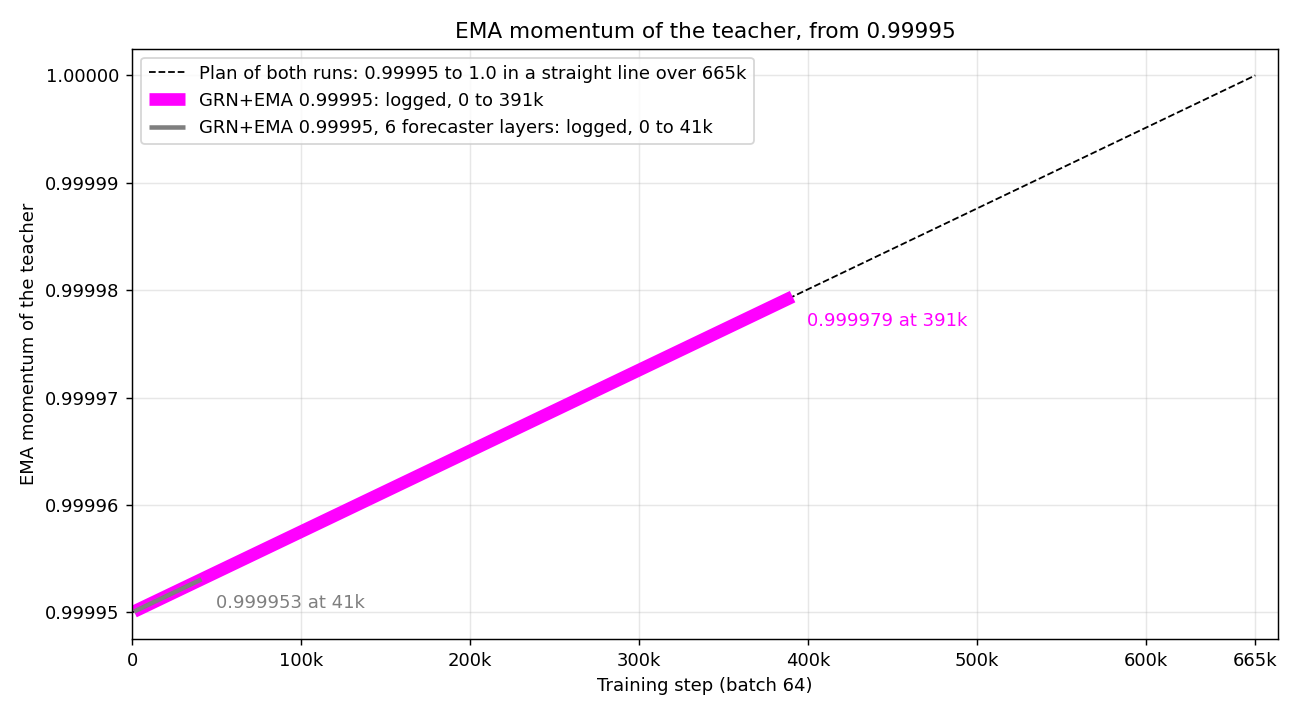
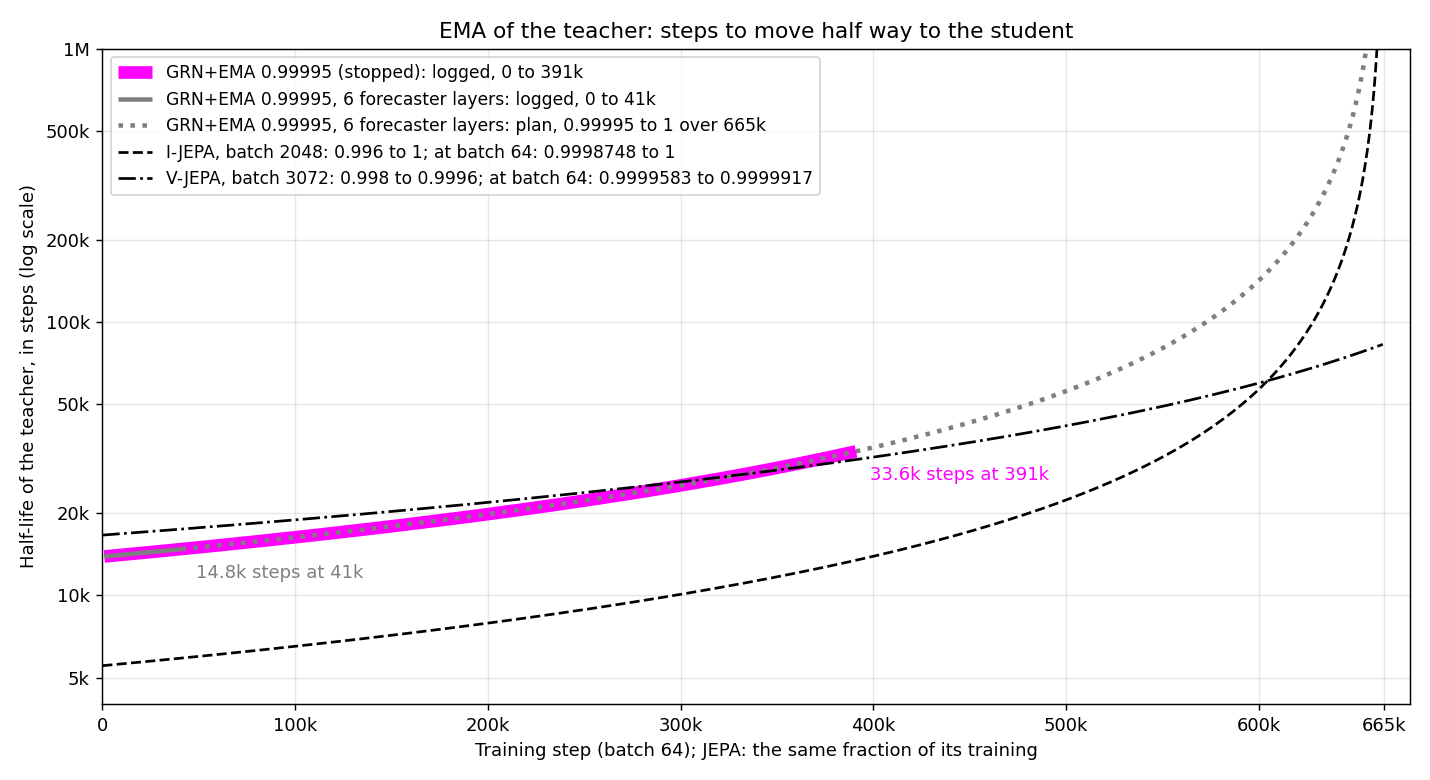
Frequency-family report: EMA of grn_ema099995 and grn_ema099995_f6 as a half-life
The owner: the number of steps for the teacher to change is a better
metric than the momentum. The y axis is now the half-life of the teacher,
ln 0.5 / ln(momentum), in steps. With I-JEPA (batch 2048) and V-JEPA
(batch 3072) moved to batch 64 by the EMA scaling rule
momentum ** (64 / batch size) (Busbridge and others 2023).

diff --git a/reports/2026-10-10_frequency_family_head/scripts/plot_ema_099995.py b/reports/2026-10-10_frequency_family_head/scripts/plot_ema_099995.py
@@ -1,9 +1,18 @@
-"""The EMA momentum of the teacher of grn_ema099995 (magenta) and
-grn_ema099995_f6 (grey, 6 forecaster layers): the column `ema_tau` of their
-loss files every 1,000 steps, and the plan of both runs (0.99995 to 1.0 in a
-straight line over 665,000 steps). grn_ema099995 stopped at step 391,000 (the
-owner, 10-21). Writes results/ema_tau_099995_logged.tsv and
-plots/ema_schedule_099995.png.
+"""The EMA of the teacher of grn_ema099995 (magenta) and grn_ema099995_f6
+(grey, 6 forecaster layers), as a half-life: the number of steps for the
+teacher to move half way to a fixed student, ln 0.5 / ln(momentum).
+
+  our runs  the column `ema_tau` of their loss files every 1,000 steps. The
+            plan of both runs: 0.99995 to 1.0 in a straight line over
+            665,000 steps. grn_ema099995 stopped at step 391,000 (the owner,
+            10-21). The plan of grn_ema099995_f6 after its last logged step.
+  I-JEPA    0.996 to 1.0 in a straight line over its training, batch 2048
+  V-JEPA    0.998 to 1.0 in a straight line over 1.25 times its training,
+            batch 3072
+The EMA scaling rule (Busbridge and others 2023, How to Scale Your EMA)
+moves the JEPA momentum to batch 64: momentum ** (64 / batch size). The JEPA
+plans are drawn against the fraction of their training. Writes
+results/ema_tau_099995_logged.tsv and plots/ema_schedule_099995.png.
 
 Usage: python3 plot_ema_099995.py
 """
@@ -13,7 +22,8 @@ from pathlib import Path
 import matplotlib
 matplotlib.use("Agg")
 import matplotlib.pyplot as plt
-from matplotlib.ticker import FormatStrFormatter
+import numpy as np
+from matplotlib.ticker import FuncFormatter, NullLocator
 
 STUDY = Path(__file__).resolve().parent.parent
 RUNS_DIR = Path("/home/jupyter/cf_runs")
@@ -21,18 +31,43 @@ TABLE = STUDY / "results" / "ema_tau_099995_logged.tsv"
 OUT = STUDY / "plots" / "ema_schedule_099995.png"
 TOTAL = 665_000
 START, END = 0.99995, 1.0
+BATCH = 64
 EVERY = 1000
+F6 = "grn_ema099995_f6"
 # run -> (loss files in step order, colour, line width, label). grn_ema099995
 # went on from its 180k checkpoint in ckpt_r2: a later file wins on a step.
 RUNS = {
     "grn_ema099995": (
         [RUNS_DIR / "grn_ema099995/ckpt/grn_ema099995_losses.csv",
          RUNS_DIR / "grn_ema099995/ckpt_r2/grn_ema099995_r2_losses.csv"],
-        "#ff00ff", 7, "GRN+EMA 0.99995"),
-    "grn_ema099995_f6": (
+        "#ff00ff", 7, "GRN+EMA 0.99995 (stopped)"),
+    F6: (
         [RUNS_DIR / "grn_ema099995_f6/ckpt/grn_ema099995_f6_losses.csv"],
         "#7f7f7f", 2.5, "GRN+EMA 0.99995, 6 forecaster layers"),
 }
+# name -> (start, end, ramp length in fractions of the training, batch size,
+# line style)
+JEPA = {
+    "I-JEPA": (0.996, 1.0, 1.0, 2048, "--"),
+    "V-JEPA": (0.998, 1.0, 1.25, 3072, "-."),
+}
+Y_TICKS = [5_000, 10_000, 20_000, 50_000, 100_000, 200_000, 500_000, 1_000_000]
+
+
+def half_life(tau):
+    """Steps for the teacher to move half way to a fixed student."""
+    return np.log(0.5) / np.log(tau)
+
+
+def plan_tau(steps):
+    """The momentum of the plan of our runs at ``steps``."""
+    return START + (END - START) * np.asarray(steps) / TOTAL
+
+
+def jepa_tau(fraction, start, end, span, batch):
+    """The momentum of a JEPA plan at ``fraction`` of its training, moved to
+    batch 64 by the EMA scaling rule."""
+    return (start + (end - start) * fraction / span) ** (BATCH / batch)
 
 
 def logged_tau(paths):
@@ -57,40 +92,64 @@ def write_table():
 
 
 def read_table():
-    """{run: (steps, ema_tau values)} from TABLE."""
+    """{run: (steps, ema_tau values)} from TABLE, as arrays."""
     points = {run: ([], []) for run in RUNS}
     with open(TABLE) as f:
         for row in csv.DictReader(f, delimiter="\t"):
             points[row["run"]][0].append(int(row["step"]))
             points[row["run"]][1].append(float(row["ema_tau"]))
-    return points
+    return {run: (np.array(s), np.array(t)) for run, (s, t) in points.items()}
 
 
 def draw_runs(ax, points):
-    """The logged momentum of each run, and its value at its last step."""
+    """The logged half-life of our runs, and the plan of grn_ema099995_f6."""
     for run, (_, colour_hex, width, label) in RUNS.items():
         steps, taus = points[run]
         last = f"{steps[-1] // 1000}k"
-        ax.plot(steps, taus, color=colour_hex, lw=width, solid_capstyle="butt",
+        ax.plot(steps, half_life(taus), color=colour_hex, lw=width, solid_capstyle="butt",
                 label=f"{label}: logged, 0 to {last}")
-        ax.annotate(f"{taus[-1]:.6f} at {last}", (steps[-1], taus[-1]), xytext=(8, -16),
+        ax.annotate(f"{half_life(taus[-1]) / 1000:.1f}k steps at {last}",
+                    (steps[-1], half_life(taus[-1])), xytext=(8, -16),
                     textcoords="offset points", fontsize=10, color=colour_hex)
+    steps = np.linspace(points[F6][0][-1], TOTAL, 1000)[:-1]
+    ax.plot(steps, half_life(plan_tau(steps)), color=RUNS[F6][1], ls=":", lw=2.5,
+            label=f"{RUNS[F6][3]}: plan, {START} to 1 over 665k")
+
+
+def draw_jepa(ax):
+    """The JEPA plans at batch 64, over the fraction of their training."""
+    fraction = np.linspace(0, 1, 1000)[:-1]
+    for name, (start, end, span, batch, style) in JEPA.items():
+        taus = jepa_tau(fraction, start, end, span, batch)
+        own_end, end_64 = start + (end - start) / span, jepa_tau(1, start, end, span, batch)
+        ax.plot(fraction * TOTAL, half_life(taus), color="black", ls=style, lw=1.5,
+                label=f"{name}, batch {batch}: {start:g} to {own_end:g}; "
+                      f"at batch 64: {taus[0]:.7g} to {end_64:.7g}")
+
+
+def style_axes(ax):
+    ax.set_yscale("log")
+    ax.set_ylim(Y_TICKS[0] * 0.8, Y_TICKS[-1])
+    ax.set_yticks(Y_TICKS)
+    ax.yaxis.set_minor_locator(NullLocator())
+    ax.yaxis.set_major_formatter(FuncFormatter(
+        lambda y, _: f"{y / 1e6:g}M" if y >= 1e6 else f"{y / 1e3:g}k"))
+    ax.set_xlim(0, TOTAL * 1.02)
+    ax.set_xticks([0, 100_000, 200_000, 300_000, 400_000, 500_000, 600_000, TOTAL])
+    ax.set_xticklabels(["0", "100k", "200k", "300k", "400k", "500k", "600k", "665k"])
+    ax.set(xlabel="Training step (batch 64); JEPA: the same fraction of its training",
+           ylabel="Half-life of the teacher, in steps (log scale)",
+           title="EMA of the teacher: steps to move half way to the student")
+    ax.grid(alpha=0.3)
+    ax.legend(loc="upper left", fontsize=9.5)
 
 
 def main():
     write_table()
-    fig, ax = plt.subplots(figsize=(10, 5.5))
-    ax.plot([0, TOTAL], [START, END], color="black", ls="--", lw=1,
-            label="Plan of both runs: 0.99995 to 1.0 in a straight line over 665k")
+    fig, ax = plt.subplots(figsize=(11, 6))
     draw_runs(ax, read_table())
-    ax.set_xlim(0, TOTAL * 1.02)
-    ax.set_xticks([0, 100_000, 200_000, 300_000, 400_000, 500_000, 600_000, TOTAL])
-    ax.set_xticklabels(["0", "100k", "200k", "300k", "400k", "500k", "600k", "665k"])
-    ax.yaxis.set_major_formatter(FormatStrFormatter("%.5f"))
-    ax.set(xlabel="Training step (batch 64)", ylabel="EMA momentum of the teacher",
-           title="EMA momentum of the teacher, from 0.99995")
-    ax.grid(alpha=0.3)
-    ax.legend(loc="upper left", fontsize=10)
+    draw_jepa(ax)
+    style_axes(ax)
     fig.tight_layout()
     fig.savefig(OUT, dpi=130)
 
